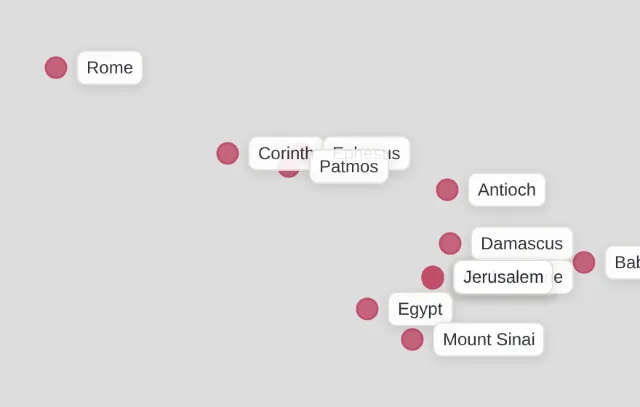
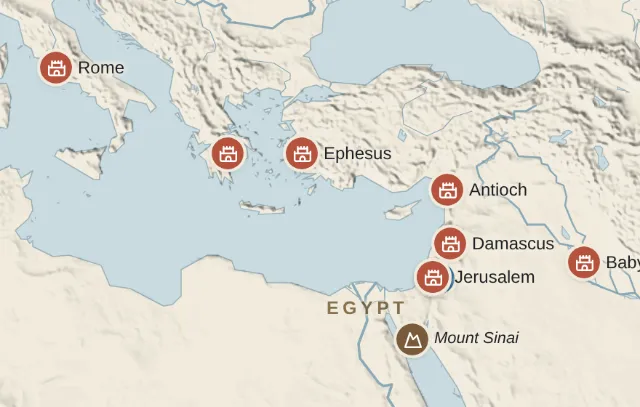
Map: Tutorial, walk, pictures and locale case for kinds, colour and the atlas (PLAN §25, §27)
The Map & Journeys Tutorial (en, fr) gains the pin kinds and legend, Colour
by, the kind picker and Fill in Place kinds, and says the atlas works
offline; its walk follows every step. The screenshot recipe frames the new
pins, the pictures are regenerated, and the diagram is redrawn. Names are
measured again after a fit's animation and once the web font arrives, which
left a French shot with colliding labels. locales.cy.ts walks the legend,
Colour by and the kind picker at phone width; the legend sits clear of a
shorter attribution.

Claude-Session: https://claude.ai/code/session_01MujQE9o7UxbKrJqyypc9Fj

diff --git a/cypress/e2e/tutorials/map.cy.ts b/cypress/e2e/tutorials/map.cy.ts
@@ -1,11 +1,12 @@
 // Walks the Map & Journeys Tutorial (docs/tutorials/map.en.md) step by step
 // on the demo vault, so a change to the Map that outdates the Tutorial fails
-// here (PLAN §25.13). Tiles are blocked offline, so the walk asserts on
-// markers, labels and routes, never on the map background.
+// here (PLAN §25.13). The walk asserts on pins, names and routes, never on
+// the atlas under them.
 describe("Tutorial: Map & Journeys", () => {
   beforeEach(() => cy.openApp());
 
-  const markers = () => cy.get("[data-testid=map] .leaflet-interactive");
+  const markers = () => cy.get("[data-testid=map] [data-testid=map-pin]");
+  const pin = (title: string) => cy.contains("[data-testid=map-pin]", title);
 
   it("can be followed to the end", () => {
     // Opened from a Place's Hub, which lists it, the way a user who is
@@ -14,17 +15,18 @@ describe("Tutorial: Map & Journeys", () => {
     cy.hubTitle("Corinth");
     cy.openTutorial("map");
 
-    // 1. Every Place with coordinates is a labelled marker; a click opens its Hub.
+    // 1. Every Place with coordinates is a pin shaped by its kind; a region is
+    //    a name alone; the legend lists the kinds; a click opens the Hub.
     cy.tutorialStep(0);
     cy.tutorialCommand("nav.map");
     cy.query<{ title: string }[]>({ kind: "places" }).then((places) => {
       markers().should("have.length", places.length);
-      cy.get("[data-testid=map] .map-label").should("have.length", places.length);
-      // Markers are added in the order `places()` returns them, as in map.cy.ts.
-      const i = places.findIndex((p) => p.title === "Corinth");
-      expect(i, "Corinth among the plotted Places").to.be.at.least(0);
-      markers().eq(i).click();
+      cy.get("[data-testid=map] .map-name").should("have.length", places.length);
     });
+    pin("Mount Sinai").should("have.attr", "data-kind", "mountain");
+    pin("Egypt").should("have.class", "no-pin");
+    cy.get("[data-testid=map-legend-kind]").should("contain", "Mountain");
+    pin("Corinth").find(".map-pin").click({ force: true });
     cy.hubTitle("Corinth");
     cy.tutorialCommand("nav.map");
     cy.get("[data-testid=map]").should("exist");
@@ -35,7 +37,7 @@ describe("Tutorial: Map & Journeys", () => {
     markers().its("length").then((all) => {
       cy.get("[data-testid=map-search]").type("corin");
       markers().should("have.length", 1);
-      cy.get("[data-testid=map] .map-label").should("contain", "Corinth");
+      cy.get("[data-testid=map] .map-name").should("contain", "Corinth");
       cy.get("[data-testid=map-filter]").should("have.attr", "data-active", "1").click();
       cy.get("[data-testid=map-mentioned-only]").check();
       cy.get("[data-testid=map-filter]").should("have.attr", "data-active", "2");
@@ -46,25 +48,62 @@ describe("Tutorial: Map & Journeys", () => {
     });
     cy.tutorialNext();
 
-    // 3. A Journey chip draws its numbered route; Antioch carries both visits.
+    // 3. Colour by Book: two Books compared, Jerusalem split between them,
+    //    the rest grey; the legend's ✕ drops one.
     cy.tutorialStep(2);
+    cy.get("[data-testid=map-filter]").click();
+    cy.get("[data-testid=map-color-by-book]").click();
+    cy.get("[data-testid=map-color-values] button").contains("Exodus").click();
+    cy.get("[data-testid=map-color-values] button").contains("1 Kings").click();
+    cy.get("body").type("{esc}");
+    pin("Jerusalem").find(".map-pin-disc path").should("have.length", 2);
+    pin("Rome").should("have.class", "is-muted");
+    cy.get("[data-testid=map-legend-uncolor]").first().click();
+    cy.get("[data-testid=map-legend-color]").should("have.length", 1);
+    // Back to Kind, so the steps after see pins in their kinds' colours.
+    cy.get("[data-testid=map-filter]").click();
+    cy.get("[data-testid=map-color-by-kind]").click();
+    cy.get("body").type("{esc}");
+    cy.tutorialNext();
+
+    // 4. A Journey chip draws its numbered route; Antioch carries both visits.
+    cy.tutorialStep(3);
     cy.get("[data-testid=map] .map-route").should("not.exist");
     cy.get("[data-testid=map-filter]").click();
-    cy.contains("button", "Paul's second missionary journey").click();
+    cy.get("[data-testid=map-filter-journeys] button").contains("Paul's second missionary journey").click();
     cy.get("body").type("{esc}");
     cy.get("[data-testid=map] .map-route").should("have.length.greaterThan", 0);
     cy.get("[data-testid=map] .map-arrow").should("have.length.greaterThan", 0);
-    cy.get("[data-testid=map] .map-label").contains("Antioch").should("contain", "1").and("contain", "6");
+    pin("Antioch").find("[data-testid=map-stop-number]").should("contain", "1").and("contain", "6");
     // Turn it off again, so the next steps see ordinary Places only.
     cy.get("[data-testid=map-filter]").click();
-    cy.contains("button", "Paul's second missionary journey").click();
+    cy.get("[data-testid=map-filter-journeys] button").contains("Paul's second missionary journey").click();
     cy.get("body").type("{esc}");
     cy.get("[data-testid=map] .map-route").should("not.exist");
     cy.tutorialNext();
 
-    // 4. Troas has no coordinates: Set location from the bundled list puts it on the Map.
-    cy.tutorialStep(3);
-    cy.get("[data-testid=map] .map-label").should("not.contain", "Troas");
+    // 5. A Place's kind is picked on its Hub, or made there; the gazetteer fills
+    //    in the rest, after naming what it would change.
+    cy.tutorialStep(4);
+    cy.openDoc("Patmos");
+    cy.hubTitle("Patmos");
+    cy.get("[data-testid=kind-picker]").should("have.attr", "data-kind", "region").click();
+    cy.get("[data-testid=kind-new]").click();
+    cy.get("[data-testid=kind-new-name]").type("Island");
+    cy.get("[data-testid=kind-icon][data-icon=sailboat]").click();
+    cy.get("[data-testid=kind-new-save]").click();
+    cy.get("[data-testid=kind-picker]").should("have.attr", "data-kind", "Island");
+    cy.runCommand("Go to Map");
+    pin("Patmos").should("have.attr", "data-kind", "Island");
+    cy.get("[data-testid=map-legend-kind]").should("contain", "Island");
+    // Every demo Place already has a kind, so the gazetteer has nothing to add.
+    cy.tutorialCommand("map.fill_kinds");
+    cy.contains("Every Place the gazetteer knows already has a kind.").should("exist");
+    cy.tutorialNext();
+
+    // 6. Troas has no coordinates: Set location from the bundled list puts it on the Map.
+    cy.tutorialStep(5);
+    cy.get("[data-testid=map] .map-name").should("not.contain", "Troas");
     cy.openDoc("Troas");
     cy.hubTitle("Troas");
     cy.get("button[aria-label='Set location']").click();
@@ -75,11 +114,11 @@ describe("Tutorial: Map & Journeys", () => {
     cy.get("[data-testid=set-location]").should("not.exist");
     cy.get("[data-testid=property-lat] input").should("have.value", "39.7519");
     cy.runCommand("Go to Map");
-    cy.get("[data-testid=map] .map-label").should("contain", "Troas");
+    cy.get("[data-testid=map] .map-name").should("contain", "Troas");
     cy.tutorialNext();
 
-    // 5. Do it once: a new Place looked up in the bundled list lands on the Map.
-    cy.tutorialStep(4);
+    // 7. Do it once: a Journey through a Place the gazetteer makes, kind and all.
+    cy.tutorialStep(6);
     cy.tutorialCommand("create.journey");
     cy.get("[data-testid=new-doc-title]").type("Paul's first journey");
     cy.get("[data-testid=new-doc-form]").contains("button", "Create").click();
@@ -103,7 +142,8 @@ describe("Tutorial: Map & Journeys", () => {
     cy.get("[data-testid=journey-stop-close]").click();
     cy.get("[data-testid=journey-show-on-map]").click();
     cy.get("[data-testid=map] .map-route").should("have.length.greaterThan", 0);
-    cy.get("[data-testid=map] .map-label").should("contain", "Philippi");
+    cy.get("[data-testid=map] .map-name").should("contain", "Philippi");
+    pin("Philippi").should("have.attr", "data-kind", "settlement");
     cy.docByTitle("Paul's first journey").then((d) => {
       cy.task<string>("file:read", `${Cypress.env("vault")}/${d.path}`).then((text) => {
         expect(text).to.contain('places: ["[[Antioch]]", "[[Philippi]]", "[[Corinth]]"]');

diff --git a/cypress/e2e/locales.cy.ts b/cypress/e2e/locales.cy.ts
@@ -247,6 +247,28 @@ describe("Locale layout", () => {
         expectNoOverflow();
       });
 
+      // The Map's legend and filter popover (« Couleur selon », « Choisissez-en
+      // jusqu'à cinq à comparer », « En compléter 1 depuis le répertoire »), and
+      // a Place's kind picker with « Nouveau genre… » and its icon grid.
+      it("keeps the Map's legend, Colour by and the kind picker inside the screen", () => {
+        cy.get("[data-sidebar=trigger]").first().click();
+        cy.get("[data-testid=nav-map]").click();
+        cy.get("[data-testid=map-legend-open]").click();
+        cy.get("[data-testid=map-legend]").should("be.visible");
+        expectNoOverflow();
+        cy.get("[data-testid=map-filter]").click();
+        cy.get("[data-testid=map-color-by-book]").click();
+        cy.get("[data-testid=map-color-values]").should("be.visible");
+        expectNoOverflow();
+        cy.get("[data-testid=map-color-by-kind]").click();
+        cy.get("body").type("{esc}");
+        cy.openDoc("Mount Sinai");
+        cy.get("[data-testid=kind-picker]").click();
+        cy.get("[data-testid=kind-new]").click();
+        cy.get("[data-testid=kind-new-form]").should("be.visible");
+        expectNoOverflow();
+      });
+
       // Tutorials are the longest text in the app, in a 390px bottom sheet:
       // the folder-sync ones nest a provider's instructions two levels deep,
       // and French runs half again as long. Settings lists them all for this

diff --git a/src/views/MapView.tsx b/src/views/MapView.tsx
@@ -294,7 +294,10 @@ export function MapView() {
     };
     map.current.on("moveend zoomend", mark);
     mark();
-    map.current.on("zoomend", () => relabel());
+    // Names are measured, so measure again whenever their boxes can have
+    // moved: a zoom, the end of an animated fit, and the web font arriving.
+    map.current.on("zoomend moveend", () => relabel());
+    document.fonts?.ready.then(() => relabel()).catch(() => {});
     atlas.current = addAtlas(map.current);
     layer.current = L.layerGroup().addTo(map.current);
     // Leaflet only measures its box on a window resize; the Tutorial panel
@@ -413,8 +416,11 @@ export function MapView() {
       fitted.current = key;
       m.fitBounds(L.latLngBounds(pts).pad(0.3), { maxZoom: 9 });
     }
-    // After layout: names need their final boxes to be measured.
+    // After layout: names need their final boxes to be measured. Once more a
+    // moment later, in case a fit was still animating the first time.
     requestAnimationFrame(() => relabelIn(drawnPlaces.current));
+    const again = window.setTimeout(() => relabelIn(drawnPlaces.current), 400);
+    return () => window.clearTimeout(again);
   }, [shown, routes, routeColorOf, numbersOf, skinTick, kindById, mf.colorBy, mf.colored, facts]);
 
   return (

diff --git a/src/components/MapLegend.tsx b/src/components/MapLegend.tsx
@@ -90,7 +90,7 @@ export function MapLegend({
         size="sm"
         variant="outline"
         data-testid="map-legend-open"
-        className="absolute bottom-3 left-3 z-[1000] min-h-8 h-auto bg-popover/95 shadow-md"
+        className="absolute bottom-7 left-3 z-[1000] min-h-8 h-auto bg-popover/95 shadow-md"
         onClick={() => setOpen(true)}
       >
         <ListTree />
@@ -102,7 +102,7 @@ export function MapLegend({
     <section
       data-testid="map-legend"
       aria-label={t.map_legend}
-      className="absolute bottom-3 left-3 z-[1000] flex max-h-[calc(100%-1.5rem)] w-56 max-w-[calc(100%-1.5rem)] flex-col gap-2 overflow-y-auto rounded-xl border bg-popover/95 p-3 text-popover-foreground shadow-md backdrop-blur-sm"
+      className="absolute bottom-7 left-3 z-[1000] flex max-h-[calc(100%-2.5rem)] w-56 max-w-[calc(100%-1.5rem)] flex-col gap-2 overflow-y-auto rounded-xl border bg-popover/95 p-3 text-popover-foreground shadow-md backdrop-blur-sm"
     >
       <div className="flex min-w-0 items-center justify-between gap-2">
         <h2 className="min-w-0 text-xs font-semibold">{t.map_legend}</h2>

diff --git a/src/lib/atlas.ts b/src/lib/atlas.ts
@@ -80,7 +80,7 @@ export function addAtlas(map: L.Map, { online = true }: { online?: boolean } = {
       [10, 5],
       [48, 62],
     ]),
-    attribution: "Relief: Mapzen Terrain Tiles (SRTM, GMTED2010, ETOPO1) · Natural Earth",
+    attribution: "Mapzen Terrain Tiles · Natural Earth",
   }).addTo(map);
 
   if (online)

diff --git a/docs/tutorials/map.fr.md b/docs/tutorials/map.fr.md
@@ -1,17 +1,20 @@
 # Carte et voyages
 
-La carte montre chaque Lieu de votre coffre qui a des coordonnées, et trace vos voyages comme des itinéraires passant par leurs étapes. Servez-vous-en pour voir où se sont passées les choses que vous étudiez, et par quels Lieux vous mène un Livre ou un voyage.
+La carte montre chaque Lieu de votre coffre qui a des coordonnées, sur un atlas du monde biblique, et trace vos voyages comme des itinéraires passant par leurs étapes. Servez-vous-en pour voir où se sont passées les choses que vous étudiez, quel genre de lieux c'étaient, et par quels Lieux vous mène un Livre ou un voyage.
 
-![La carte : des marqueurs de Lieux, et un voyage tracé en itinéraire numéroté](image:map)
+![La carte : des épingles de Lieux dont la forme dit le genre, sur l'atlas](image:map)
 
-1. Ouvrez [Aller à Carte](command:nav.map). Chaque Lieu doté de coordonnées est un marqueur portant son titre ; cliquez dessus pour ouvrir sa page.
+1. Ouvrez [Aller à Carte](command:nav.map). Chaque Lieu doté de coordonnées est une épingle dont la forme dit quel genre de lieu c'est : une localité, une montagne, une eau ou un site ; une région n'est montrée que par son nom. La **Légende**, dans le coin, liste les genres à l'écran. Cliquez sur une épingle pour ouvrir sa page.
 2. Réduisez les Lieux affichés : tapez dans **Rechercher des Lieux**, ou ouvrez **Filtrer** pour choisir des étiquettes, les Livres où un Lieu est **Mentionné dans**, ou **Seulement les Lieux mentionnés**. **Effacer les filtres** fait revenir tous les Lieux.
-3. Dans **Filtrer**, activez un voyage sous **Voyages** : son itinéraire est tracé dans l'ordre du trajet, chaque étape numérotée et des flèches indiquant le sens. Un Lieu visité deux fois porte les deux numéros. Sur la page d'un voyage, **Voir sur la carte** fait de même, et la liste **Étapes** signale celles qui ne peuvent pas être tracées.
-4. Un Lieu sans coordonnées n'apparaît pas sur la carte. Ouvrez sa page et appuyez sur **Définir la position** : choisissez le lieu dans la liste des lieux bibliques fournie avec l'application, ou cliquez sur la carte, puis appuyez sur **Utiliser cette position**.
-5. Essayez une fois : créez un voyage que vous étudiez avec [Nouveau Voyage](command:create.journey). Sur sa page, appuyez sur **Ajouter une Étape** et tapez le premier Lieu : vos Lieux sont proposés d'abord, puis les lieux bibliques, qui deviennent des Lieux à vous, coordonnées comprises, quand vous en choisissez un. Ajoutez chaque étape à son tour, corrigez l'ordre avec les flèches, puis appuyez sur **Voir sur la carte** : l'itinéraire passe par vos étapes. Si ce n'était qu'un essai, le bouton de suppression de l'en-tête de sa page retire le voyage ; les Lieux qu'il a créés restent, et se retirent de la même façon.
+3. Dans **Filtrer**, **Couleur selon** choisit ce que dit la couleur des épingles : **Genre** (par défaut), **Tag**, **Livre** ou **Aucune**. Avec Tag ou Livre, choisissez-en jusqu'à cinq à comparer : chacun reçoit une couleur, un Lieu présent dans deux d'entre eux reçoit une épingle partagée, et tous les autres Lieux passent en gris. Le ✕ à côté d'une valeur dans la **Légende** la retire de la comparaison.
+4. Dans **Filtrer**, activez un voyage sous **Voyages** : son itinéraire est tracé dans l'ordre du trajet, dans sa propre couleur, chaque étape numérotée au bord de son épingle et des flèches indiquant le sens. Un Lieu visité deux fois porte les deux numéros. Sur la page d'un voyage, **Voir sur la carte** fait de même, et la liste **Étapes** signale celles qui ne peuvent pas être tracées.
+5. Le genre d'un Lieu se choisit sur sa page, sous **Genre** : l'un des cinq fournis avec l'application, ou **Nouveau genre…** pour créer le vôtre à partir d'un nom et d'une icône. Un Lieu choisi dans la liste des lieux bibliques reçoit son genre avec ses coordonnées ; pour les Lieux créés avant, [Compléter les genres des Lieux depuis le répertoire](command:map.fill_kinds) nomme chacun de ceux qu'il modifierait et demande d'abord.
+6. Un Lieu sans coordonnées n'apparaît pas sur la carte. Ouvrez sa page et appuyez sur **Définir la position** : choisissez le lieu dans la liste des lieux bibliques fournie avec l'application, ou cliquez sur la carte, puis appuyez sur **Utiliser cette position**.
+7. Essayez une fois : créez un voyage que vous étudiez avec [Nouveau Voyage](command:create.journey). Sur sa page, appuyez sur **Ajouter une Étape** et tapez le premier Lieu : vos Lieux sont proposés d'abord, puis les lieux bibliques, qui deviennent des Lieux à vous, coordonnées et genre compris, quand vous en choisissez un. Ajoutez chaque étape à son tour, corrigez l'ordre avec les flèches, puis appuyez sur **Voir sur la carte** : l'itinéraire passe par vos étapes. Si ce n'était qu'un essai, le bouton de suppression de l'en-tête de sa page retire le voyage ; les Lieux qu'il a créés restent, et se retirent de la même façon.
 
 ## À savoir
 
+- Le genre d'un Lieu est sa propriété **Genre**, du texte simple qu'Obsidian affiche tel quel. Les genres que vous créez sont gardés dans le coffre, si bien que vos autres appareils dessinent les mêmes épingles ; en supprimer un dans les Réglages laisse vos Lieux tels quels, avec l'épingle ordinaire.
 - Les étapes d'un voyage sont les liens de sa propriété **Lieux**, dans l'ordre du trajet : Obsidian montre et modifie la même liste.
-- Le filtre des Livres et **Seulement les Lieux mentionnés** sont mémorisés ; la recherche, les étiquettes et les voyages durent jusqu'à la fermeture de l'application.
-- Le fond de carte vient d'OpenStreetMap et demande une connexion ; vos marqueurs et itinéraires, non.
+- **Couleur selon**, le filtre des Livres et **Seulement les Lieux mentionnés** sont mémorisés ; la recherche, les étiquettes, les valeurs comparées et les voyages durent jusqu'à la fermeture de l'application.
+- L'atlas est fourni avec l'application et fonctionne hors ligne, jusqu'à l'échelle d'une région. De plus près, un plan d'OpenStreetMap prend le relais quand vous êtes en ligne ; vos épingles et itinéraires n'ont jamais besoin de connexion.

diff --git a/docs/tutorials/map.en.md b/docs/tutorials/map.en.md
@@ -1,17 +1,20 @@
 # Map & Journeys
 
-The Map shows every Place in your Vault that has coordinates, and draws your Journeys as routes through their Stops. Use it to see where the things you study happened, and which Places a Book or a journey takes you through.
+The Map shows every Place in your Vault that has coordinates, on an atlas of the Bible's world, and draws your Journeys as routes through their Stops. Use it to see where the things you study happened, what kind of places they were, and which Places a Book or a journey takes you through.
 
-![The Map: Place markers, and a Journey drawn as a numbered route](image:map)
+![The Map: Places as pins shaped by their kind, on the atlas](image:map)
 
-1. Open [Go to Map](command:nav.map). Each Place with coordinates is a marker labelled with its title; click one to open its Hub.
+1. Open [Go to Map](command:nav.map). Each Place with coordinates is a pin whose shape says what kind of place it is: a settlement, a mountain, water or a site; a region is shown by its name alone. The **Legend** in the corner lists the kinds on screen. Click a pin to open its Hub.
 2. Narrow the Places: type in **Search Places**, or open **Filter** to choose Tags, the Books a Place is **Mentioned in**, or **Only Places something mentions**. **Clear filters** brings every Place back.
-3. In **Filter**, turn on a Journey under **Journeys**: its route is drawn in travel order, with each Stop numbered and arrows for the direction. A Place visited twice carries both numbers. On a Journey's Hub, **Show on map** does the same, and the **Stops** list says which Stops cannot be drawn.
-4. A Place without coordinates is not on the Map. Open its Hub and press **Set location**: pick the place from the list of Bible places that comes with the app, or click the map, then press **Use this location**.
-5. Try it once: create a Journey you are studying with [New Journey](command:create.journey). On its Hub, press **Add a Stop** and type the first Place: your own Places are offered first, then Bible places, which become Places of yours, coordinates and all, when you pick one. Add each Stop in turn, fix the order with the arrows, then press **Show on map**: the route is drawn through your Stops. If it was only a test, the delete button in its Hub's header removes the Journey; Places it created stay, and are removed the same way.
+3. In **Filter**, **Colour by** chooses what the pins' colour tells you: **Kind** (the default), **Tag**, **Book** or **None**. With Tag or Book, pick up to five to compare: each gets a colour, a Place in two of them gets a split pin, and every other Place turns grey. The ✕ beside a value in the **Legend** drops it from the comparison.
+4. In **Filter**, turn on a Journey under **Journeys**: its route is drawn in travel order, in its own colour, with each Stop numbered on the edge of its pin and arrows for the direction. A Place visited twice carries both numbers. On a Journey's Hub, **Show on map** does the same, and the **Stops** list says which Stops cannot be drawn.
+5. A Place's kind is chosen on its Hub under **Kind**: one of the five that come with the app, or **New kind…** to make your own from a name and an icon. A Place picked from the list of Bible places gets its kind with its coordinates; for Places you made before, [Fill in Place kinds from the gazetteer](command:map.fill_kinds) names each one it would change and asks first.
+6. A Place without coordinates is not on the Map. Open its Hub and press **Set location**: pick the place from the list of Bible places that comes with the app, or click the map, then press **Use this location**.
+7. Try it once: create a Journey you are studying with [New Journey](command:create.journey). On its Hub, press **Add a Stop** and type the first Place: your own Places are offered first, then Bible places, which become Places of yours, coordinates and kind included, when you pick one. Add each Stop in turn, fix the order with the arrows, then press **Show on map**: the route is drawn through your Stops. If it was only a test, the delete button in its Hub's header removes the Journey; Places it created stay, and are removed the same way.
 
 ## Good to know
 
+- A Place's kind is its **Kind** Property, plain text that Obsidian shows as it is. Kinds you make are kept in the Vault, so your other devices draw the same pins; deleting one in Settings leaves your Places as they are, with the plain pin.
 - A Journey's Stops are the links in its **Places** Property, in travel order, so Obsidian shows and edits the same list.
-- The Books filter and **Only Places something mentions** are remembered; the search, Tags and Journeys last until you close the app.
-- The map background comes from OpenStreetMap and needs a connection; your markers and routes do not.
+- **Colour by**, the Books filter and **Only Places something mentions** are remembered; the search, Tags, the values you compare and Journeys last until you close the app.
+- The atlas comes with the app and works offline, down to the scale of a region. Closer in, a street map from OpenStreetMap takes over when you are online; your pins and routes never need a connection.
